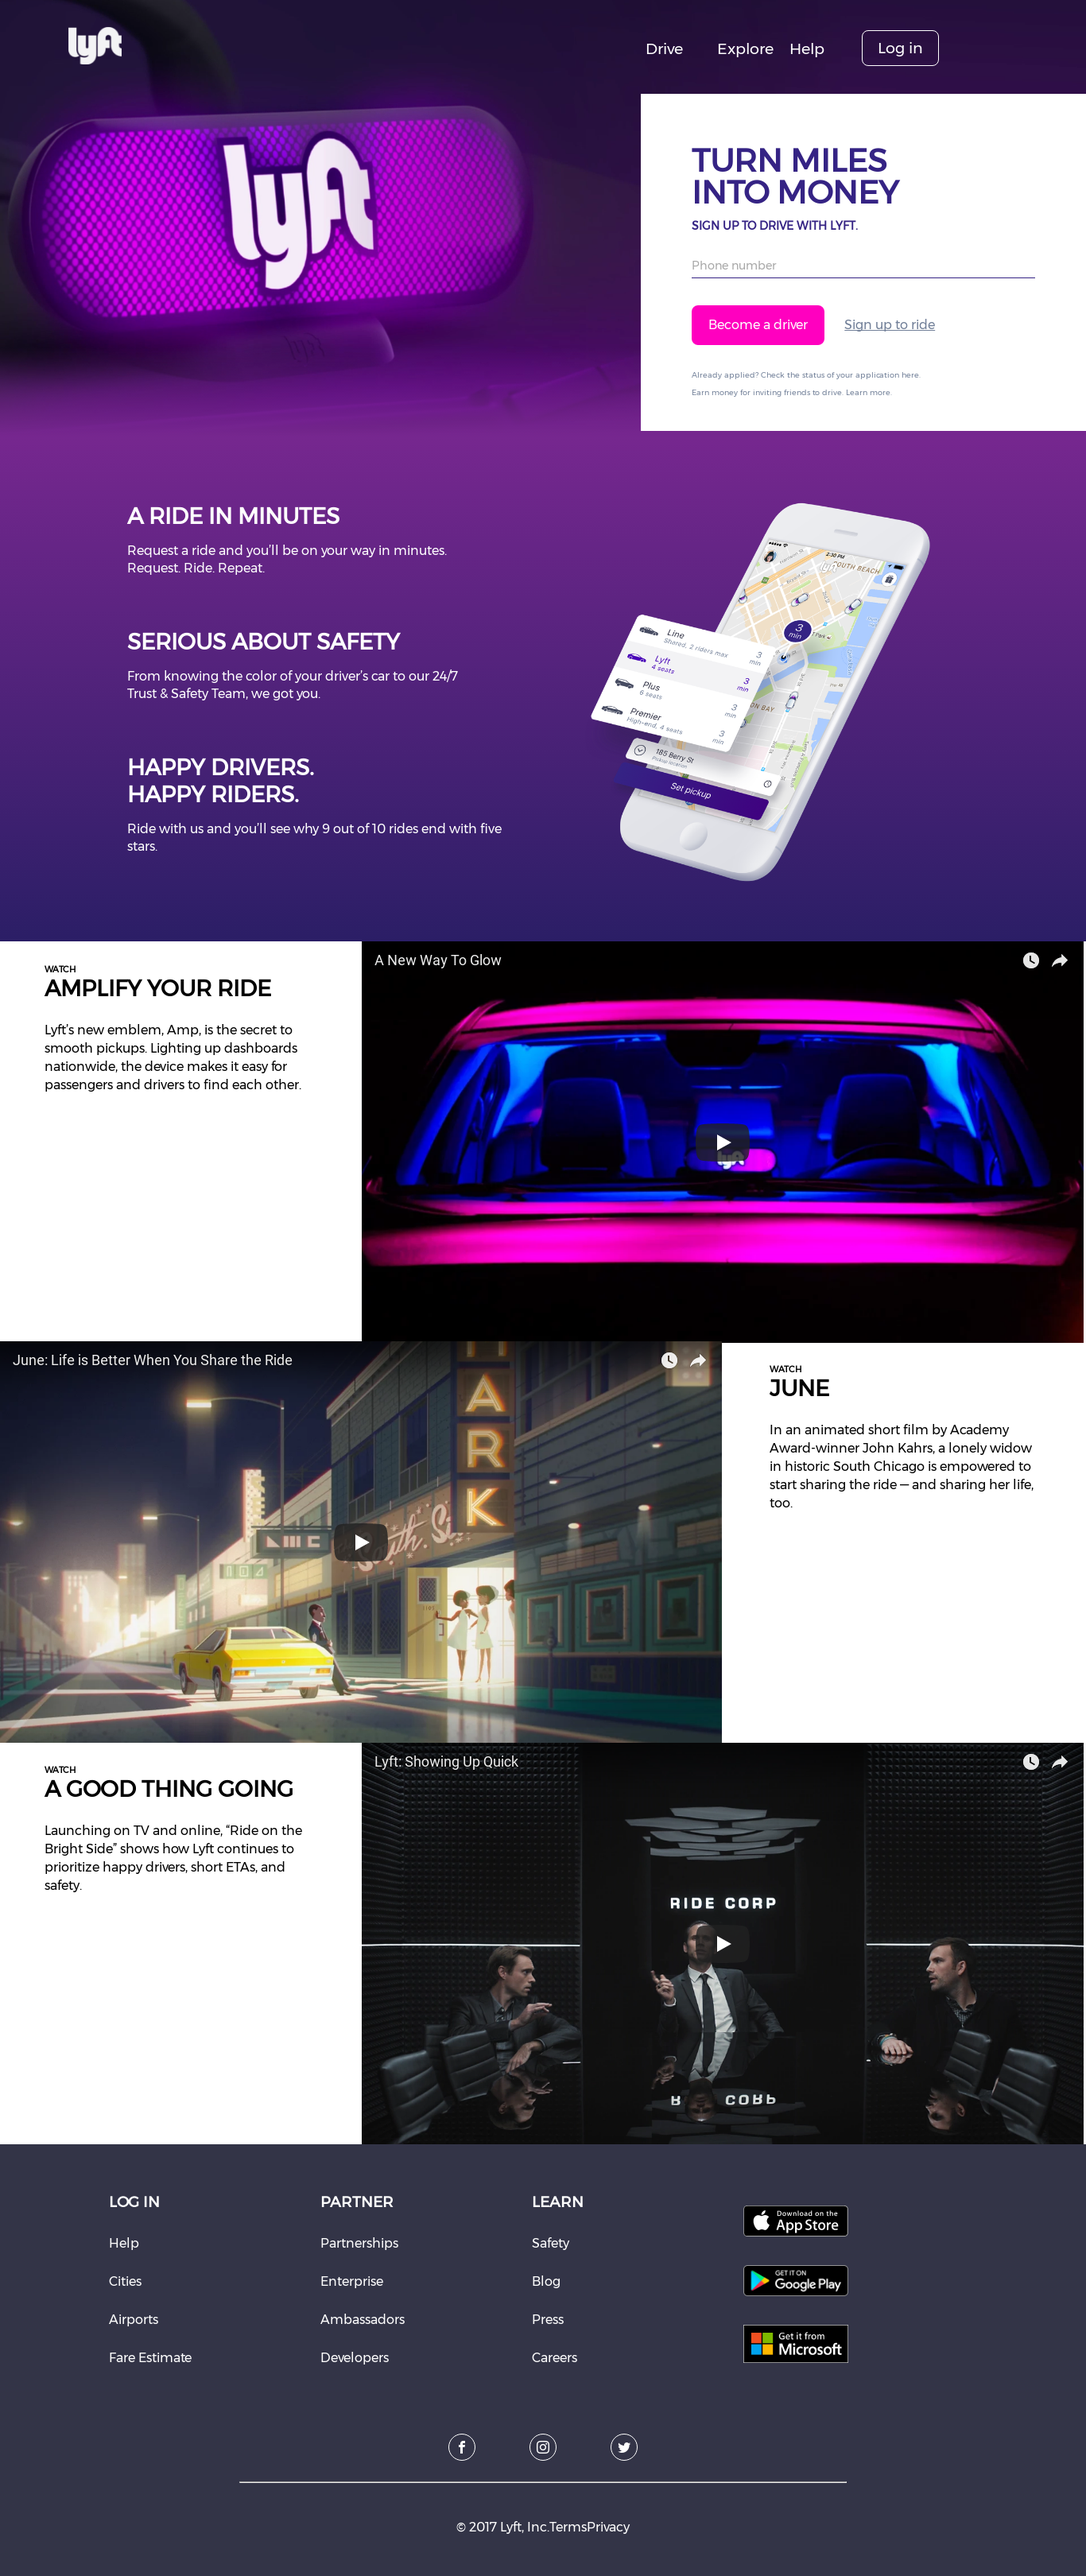
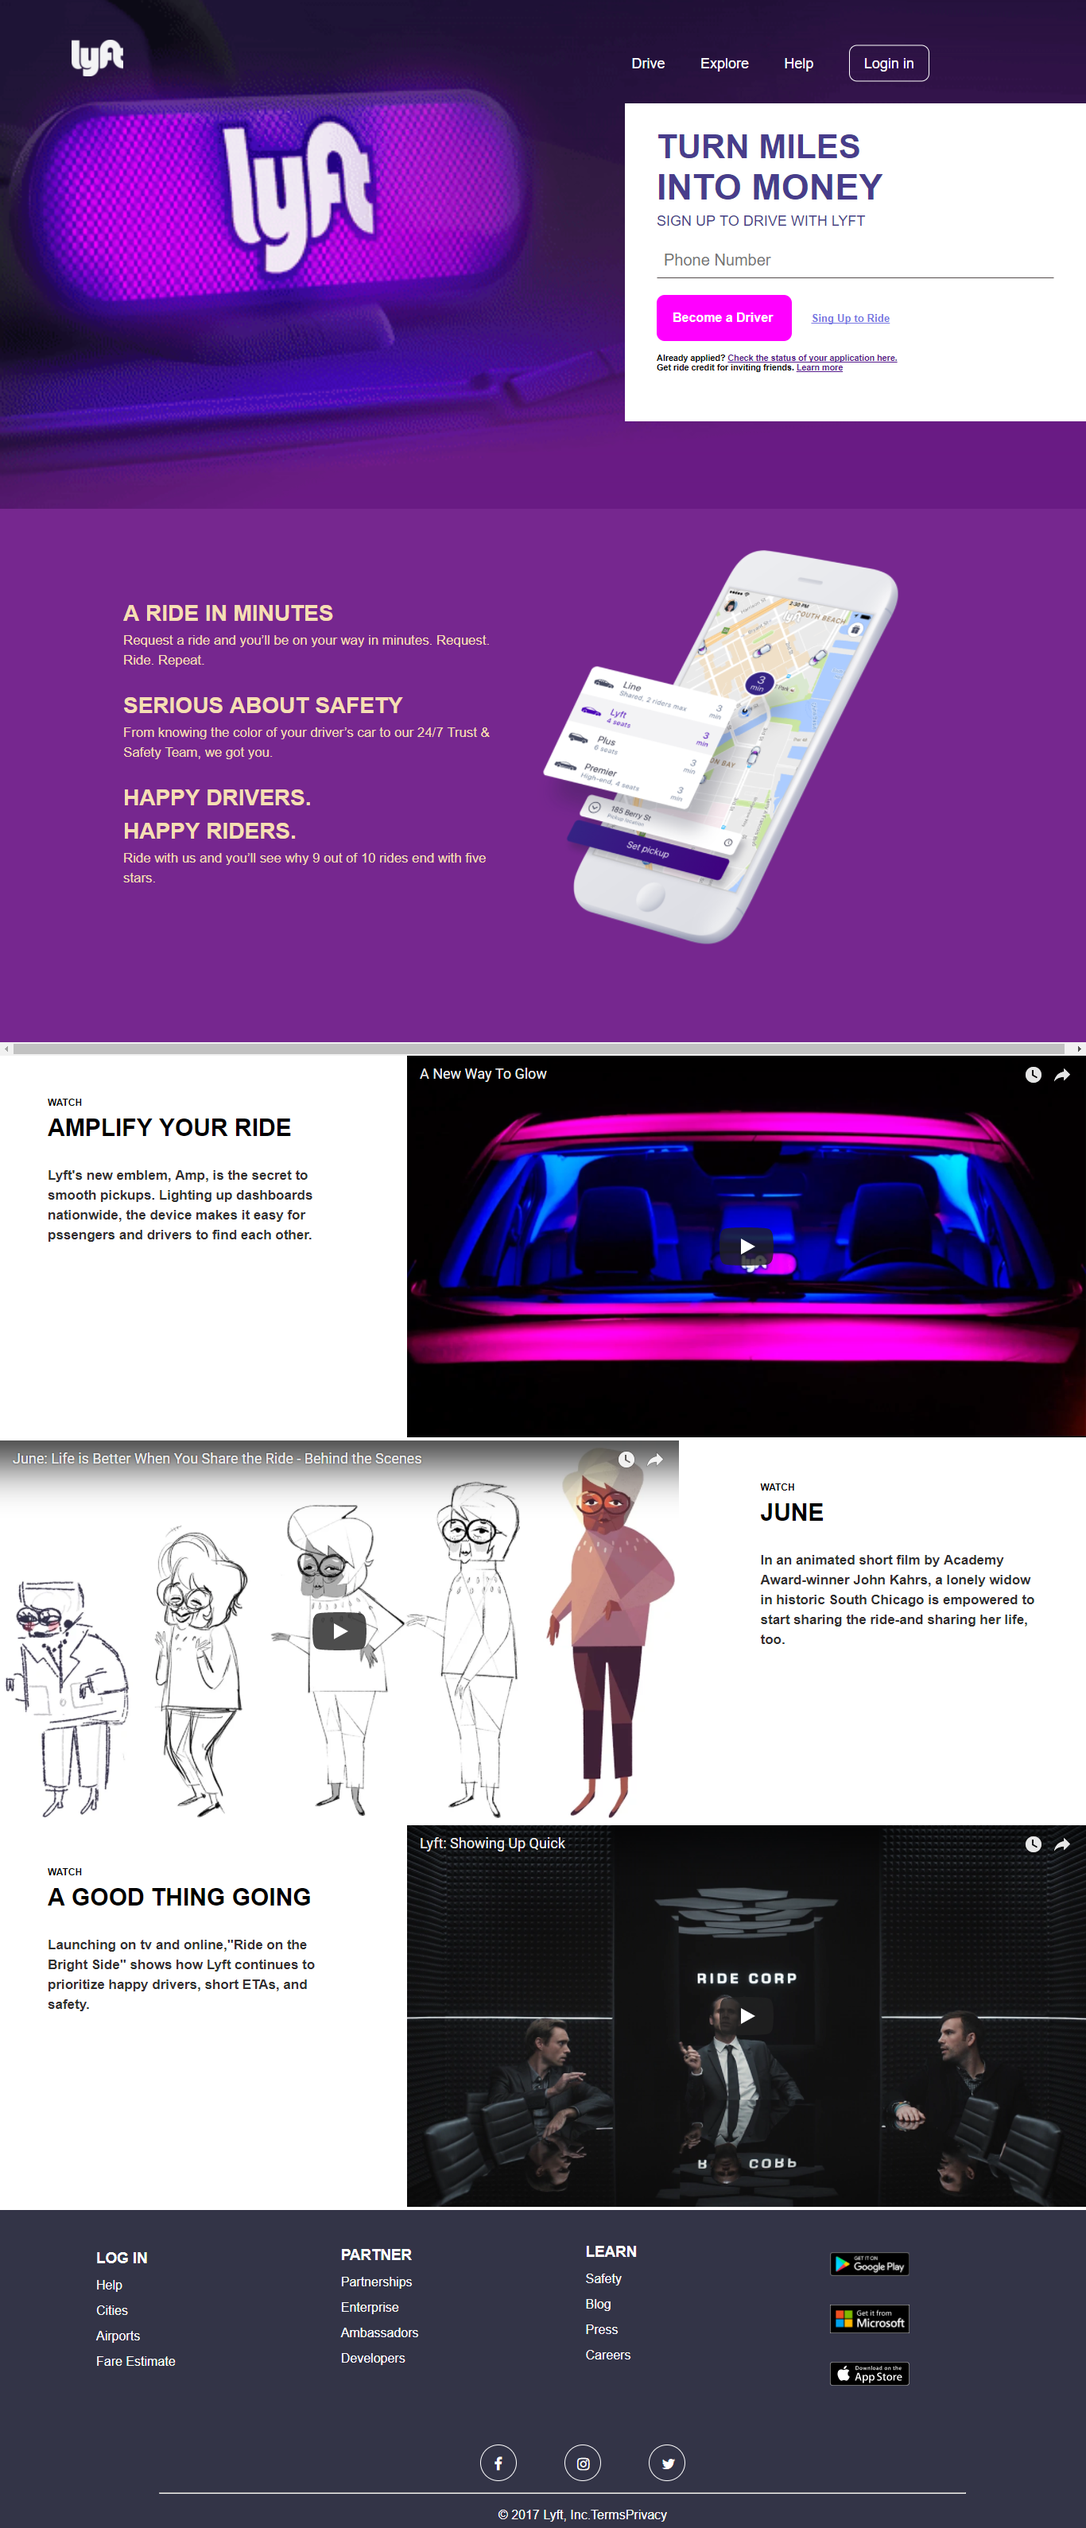
imagen del readme

diff --git a/README.md b/README.md
@@ -32,3 +32,8 @@ Se replico la plantilla inicial con los recursos que se nos brindo en el archivo
 * Uso de manera correcta las clases reutilizables y lo de uso comun. 
 
 * El codigo de HTML y de CSS(estilos), debe estar entendible, es decir, debe ser legible y facil entendimiento en caso de que alguien aparte de los creadores deseen entender lo editado.
+
+El reto consiste en replicar el sitio de **Lyft**, este será el resultado
+a lograr:
+
+![Lyft Website](docs/fullpage.png)
